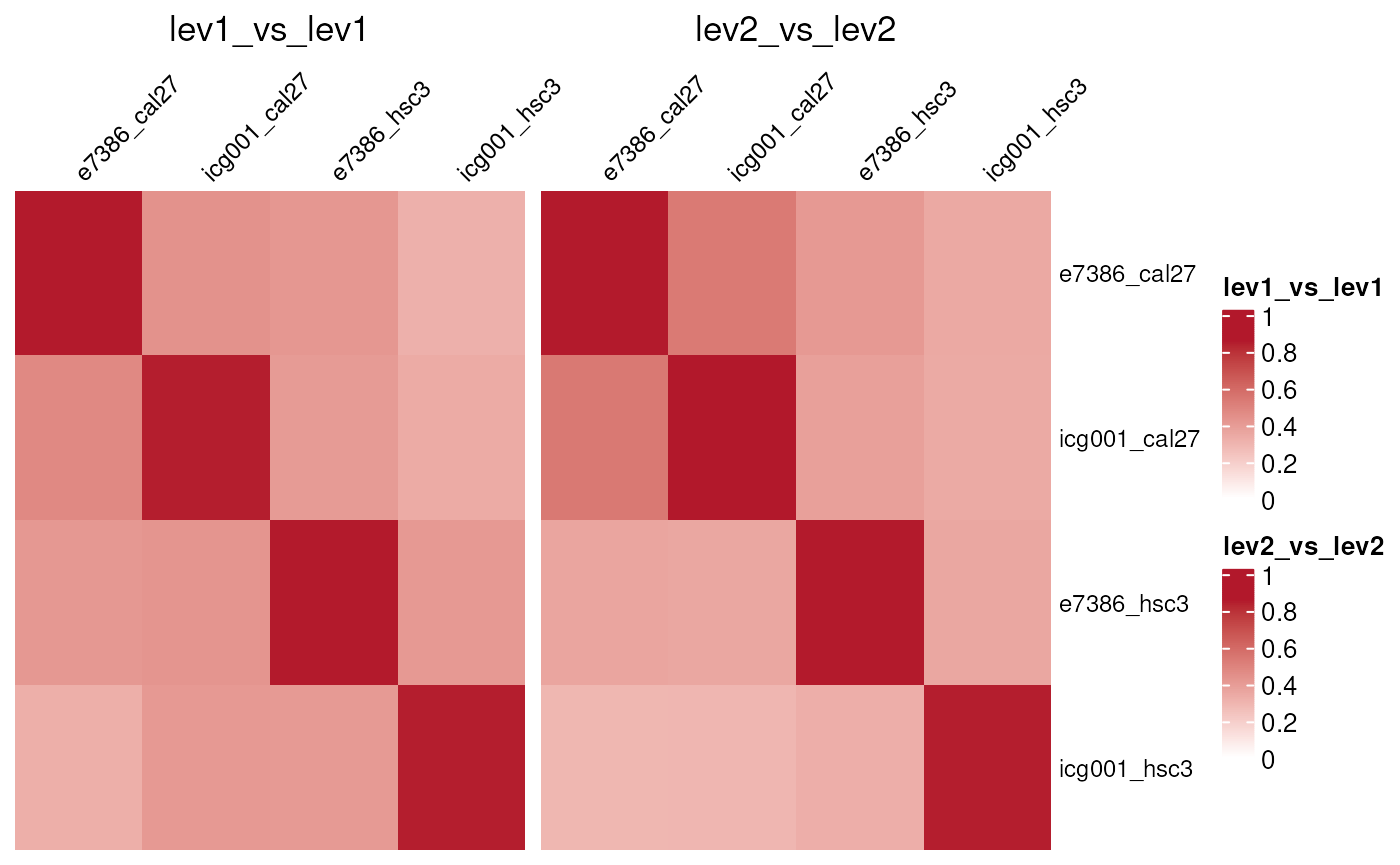
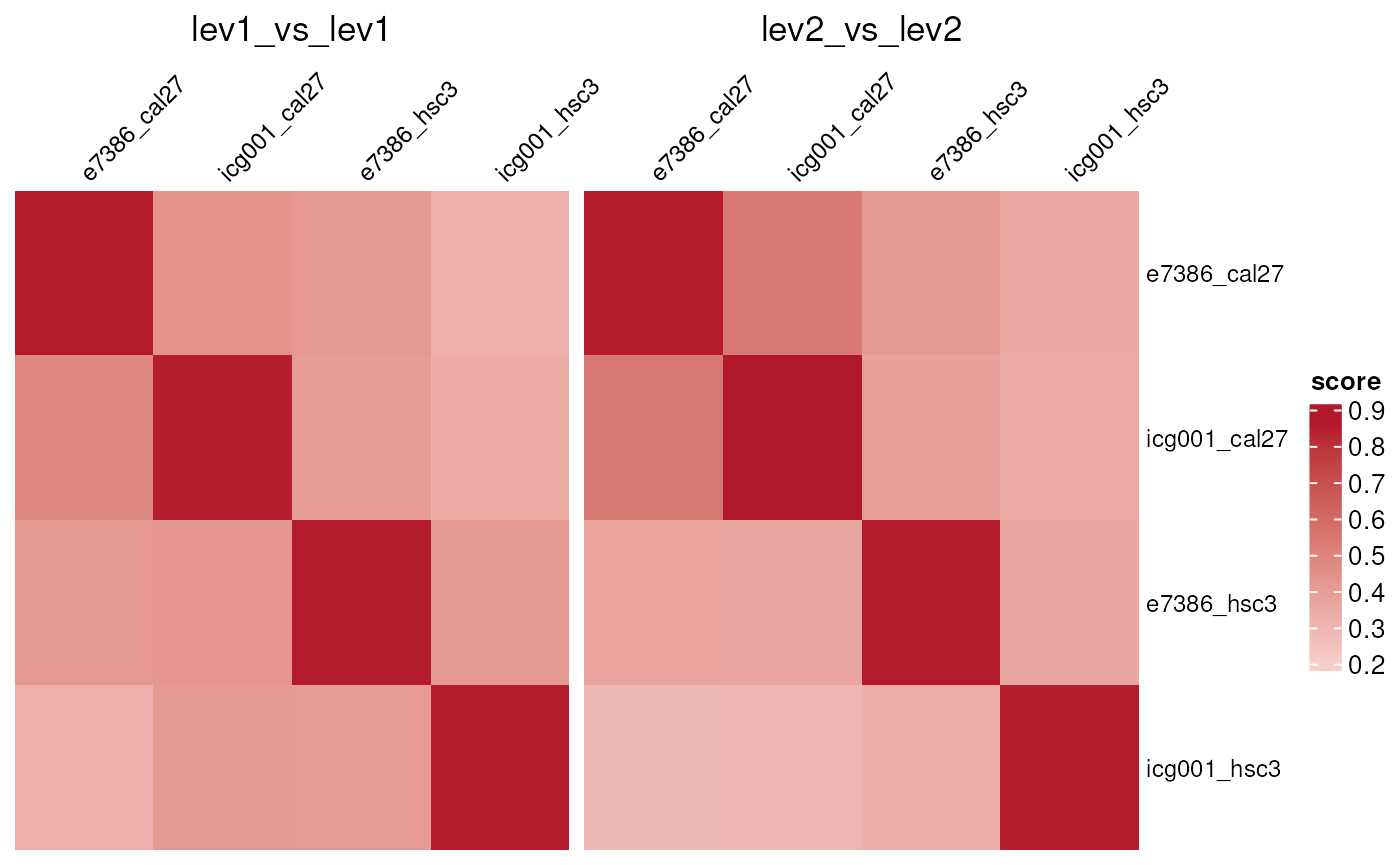
Deploying to gh-pages from @ montilab/OmicSignature@bfc68c5dff5662e08945b563b76c10bbcdbe4739 🚀

diff --git a/reference/signature_similarity_heatmap.html b/reference/signature_similarity_heatmap.html
@@ -5,17 +5,21 @@ similarity or p-value-based similarity on a `-log10(p-value)` scale.
 Asymmetric KS and GSEA comparisons can show score or `-log10(p-value)`
 matrices. For these comparisons, `mode = "combined"` draws split cells: the
 top-right triangle shows `level2_vs_level2` and the bottom-left triangle
-shows `level1_vs_level1`. `mode = "separate"`
-draws one full heatmap per level, and `mode = "split"` is invalid. Legends
-for level-specific displays use abbreviated labels such as `"lev1_vs_lev1"`.'><meta property="og:description" content='Plot one or more ComplexHeatmap heatmaps from the object returned by
+shows `level1_vs_level1`. `mode = "separate"` draws one full heatmap per
+level, each panel titled with an abbreviated label such as
+`"lev1_vs_lev1"`; since both panels use the same color scale, they share a
+single combined legend rather than showing two identical ones.
+`mode = "split"` is invalid for rank-based comparisons.'><meta property="og:description" content='Plot one or more ComplexHeatmap heatmaps from the object returned by
 `compare_omic_signatures()`. Overlap comparisons can show Jaccard
 similarity or p-value-based similarity on a `-log10(p-value)` scale.
 Asymmetric KS and GSEA comparisons can show score or `-log10(p-value)`
 matrices. For these comparisons, `mode = "combined"` draws split cells: the
 top-right triangle shows `level2_vs_level2` and the bottom-left triangle
-shows `level1_vs_level1`. `mode = "separate"`
-draws one full heatmap per level, and `mode = "split"` is invalid. Legends
-for level-specific displays use abbreviated labels such as `"lev1_vs_lev1"`.'></head><body>
+shows `level1_vs_level1`. `mode = "separate"` draws one full heatmap per
+level, each panel titled with an abbreviated label such as
+`"lev1_vs_lev1"`; since both panels use the same color scale, they share a
+single combined legend rather than showing two identical ones.
+`mode = "split"` is invalid for rank-based comparisons.'></head><body>
     <a href="#main" class="visually-hidden-focusable">Skip to contents</a>
 
 
@@ -63,7 +67,7 @@ for level-specific displays use abbreviated labels such as `"lev1_vs_lev1"`.'></
   <main id="main" class="col-md-9"><div class="page-header">
 
       <h1>Plot signature similarity heatmaps</h1>
-      <small class="dont-index">Source: <a href="https://github.com/montilab/OmicSignature/blob/main/R/signature_similarity_heatmap.R" class="external-link"><code>R/signature_similarity_heatmap.R</code></a></small>
+      <small class="dont-index">Source: <a href="https://github.com/montilab/OmicSignature/blob/feature/heatmap-shared-legend/R/signature_similarity_heatmap.R" class="external-link"><code>R/signature_similarity_heatmap.R</code></a></small>
       <div class="d-none name"><code>signature_similarity_heatmap.Rd</code></div>
     </div>
 
@@ -74,9 +78,11 @@ similarity or p-value-based similarity on a `-log10(p-value)` scale.
 Asymmetric KS and GSEA comparisons can show score or `-log10(p-value)`
 matrices. For these comparisons, `mode = "combined"` draws split cells: the
 top-right triangle shows `level2_vs_level2` and the bottom-left triangle
-shows `level1_vs_level1`. `mode = "separate"`
-draws one full heatmap per level, and `mode = "split"` is invalid. Legends
-for level-specific displays use abbreviated labels such as `"lev1_vs_lev1"`.</p>
+shows `level1_vs_level1`. `mode = "separate"` draws one full heatmap per
+level, each panel titled with an abbreviated label such as
+`"lev1_vs_lev1"`; since both panels use the same color scale, they share a
+single combined legend rather than showing two identical ones.
+`mode = "split"` is invalid for rank-based comparisons.</p>
     </div>
 
     <div class="section level2">

diff --git a/articles/CompareMixedDirection.html b/articles/CompareMixedDirection.html
@@ -73,7 +73,7 @@
       <h1>Comparing Mixed Uni- and Bi-directional Signatures</h1>
             
       
-      <small class="dont-index">Source: <a href="https://github.com/montilab/OmicSignature/blob/main/vignettes/CompareMixedDirection.Rmd" class="external-link"><code>vignettes/CompareMixedDirection.Rmd</code></a></small>
+      <small class="dont-index">Source: <a href="https://github.com/montilab/OmicSignature/blob/feature/heatmap-shared-legend/vignettes/CompareMixedDirection.Rmd" class="external-link"><code>vignettes/CompareMixedDirection.Rmd</code></a></small>
       <div class="d-none name"><code>CompareMixedDirection.Rmd</code></div>
     </div>
 

diff --git a/articles/CompareSignatures.html b/articles/CompareSignatures.html
@@ -73,7 +73,7 @@
       <h1>Comparing OmicSignature Lists</h1>
             
       
-      <small class="dont-index">Source: <a href="https://github.com/montilab/OmicSignature/blob/main/vignettes/CompareSignatures.Rmd" class="external-link"><code>vignettes/CompareSignatures.Rmd</code></a></small>
+      <small class="dont-index">Source: <a href="https://github.com/montilab/OmicSignature/blob/feature/heatmap-shared-legend/vignettes/CompareSignatures.Rmd" class="external-link"><code>vignettes/CompareSignatures.Rmd</code></a></small>
       <div class="d-none name"><code>CompareSignatures.Rmd</code></div>
     </div>
 

diff --git a/articles/CompareUnidirectional.html b/articles/CompareUnidirectional.html
@@ -73,7 +73,7 @@
       <h1>Comparing Uni-directional Signatures</h1>
             
       
-      <small class="dont-index">Source: <a href="https://github.com/montilab/OmicSignature/blob/main/vignettes/CompareUnidirectional.Rmd" class="external-link"><code>vignettes/CompareUnidirectional.Rmd</code></a></small>
+      <small class="dont-index">Source: <a href="https://github.com/montilab/OmicSignature/blob/feature/heatmap-shared-legend/vignettes/CompareUnidirectional.Rmd" class="external-link"><code>vignettes/CompareUnidirectional.Rmd</code></a></small>
       <div class="d-none name"><code>CompareUnidirectional.Rmd</code></div>
     </div>
 

diff --git a/articles/CreateOmS.html b/articles/CreateOmS.html
@@ -76,7 +76,7 @@ Li</h4>
             
             <h4 data-toc-skip class="date">2026-07-17</h4>
       
-      <small class="dont-index">Source: <a href="https://github.com/montilab/OmicSignature/blob/main/vignettes/CreateOmS.Rmd" class="external-link"><code>vignettes/CreateOmS.Rmd</code></a></small>
+      <small class="dont-index">Source: <a href="https://github.com/montilab/OmicSignature/blob/feature/heatmap-shared-legend/vignettes/CreateOmS.Rmd" class="external-link"><code>vignettes/CreateOmS.Rmd</code></a></small>
       <div class="d-none name"><code>CreateOmS.Rmd</code></div>
     </div>
 

diff --git a/articles/CreateOmSC.html b/articles/CreateOmSC.html
@@ -76,7 +76,7 @@ Li</h4>
             
             <h4 data-toc-skip class="date">2026-07-17</h4>
       
-      <small class="dont-index">Source: <a href="https://github.com/montilab/OmicSignature/blob/main/vignettes/CreateOmSC.Rmd" class="external-link"><code>vignettes/CreateOmSC.Rmd</code></a></small>
+      <small class="dont-index">Source: <a href="https://github.com/montilab/OmicSignature/blob/feature/heatmap-shared-legend/vignettes/CreateOmSC.Rmd" class="external-link"><code>vignettes/CreateOmSC.Rmd</code></a></small>
       <div class="d-none name"><code>CreateOmSC.Rmd</code></div>
     </div>
 

diff --git a/articles/FunOmS.html b/articles/FunOmS.html
@@ -76,7 +76,7 @@ Li</h4>
             
             <h4 data-toc-skip class="date">2026-07-17</h4>
       
-      <small class="dont-index">Source: <a href="https://github.com/montilab/OmicSignature/blob/main/vignettes/FunOmS.Rmd" class="external-link"><code>vignettes/FunOmS.Rmd</code></a></small>
+      <small class="dont-index">Source: <a href="https://github.com/montilab/OmicSignature/blob/feature/heatmap-shared-legend/vignettes/FunOmS.Rmd" class="external-link"><code>vignettes/FunOmS.Rmd</code></a></small>
       <div class="d-none name"><code>FunOmS.Rmd</code></div>
     </div>
 

diff --git a/articles/FunOmSC.html b/articles/FunOmSC.html
@@ -76,7 +76,7 @@ Li</h4>
             
             <h4 data-toc-skip class="date">2026-07-17</h4>
       
-      <small class="dont-index">Source: <a href="https://github.com/montilab/OmicSignature/blob/main/vignettes/FunOmSC.Rmd" class="external-link"><code>vignettes/FunOmSC.Rmd</code></a></small>
+      <small class="dont-index">Source: <a href="https://github.com/montilab/OmicSignature/blob/feature/heatmap-shared-legend/vignettes/FunOmSC.Rmd" class="external-link"><code>vignettes/FunOmSC.Rmd</code></a></small>
       <div class="d-none name"><code>FunOmSC.Rmd</code></div>
     </div>
 

diff --git a/articles/ObjectStructure.html b/articles/ObjectStructure.html
@@ -76,7 +76,7 @@ Li</h4>
             
             <h4 data-toc-skip class="date">2026-07-17</h4>
       
-      <small class="dont-index">Source: <a href="https://github.com/montilab/OmicSignature/blob/main/vignettes/ObjectStructure.Rmd" class="external-link"><code>vignettes/ObjectStructure.Rmd</code></a></small>
+      <small class="dont-index">Source: <a href="https://github.com/montilab/OmicSignature/blob/feature/heatmap-shared-legend/vignettes/ObjectStructure.Rmd" class="external-link"><code>vignettes/ObjectStructure.Rmd</code></a></small>
       <div class="d-none name"><code>ObjectStructure.Rmd</code></div>
     </div>
 

diff --git a/articles/SampleType.html b/articles/SampleType.html
@@ -76,7 +76,7 @@ Li</h4>
             
             <h4 data-toc-skip class="date">2026-07-17</h4>
       
-      <small class="dont-index">Source: <a href="https://github.com/montilab/OmicSignature/blob/main/vignettes/SampleType.Rmd" class="external-link"><code>vignettes/SampleType.Rmd</code></a></small>
+      <small class="dont-index">Source: <a href="https://github.com/montilab/OmicSignature/blob/feature/heatmap-shared-legend/vignettes/SampleType.Rmd" class="external-link"><code>vignettes/SampleType.Rmd</code></a></small>
       <div class="d-none name"><code>SampleType.Rmd</code></div>
     </div>
 

diff --git a/authors.html b/authors.html
@@ -64,7 +64,7 @@
 
     <div class="section level2">
       <h2 id="citation">Citation</h2>
-      <p><small class="dont-index">Source: <a href="https://github.com/montilab/OmicSignature/blob/main/DESCRIPTION" class="external-link"><code>DESCRIPTION</code></a></small></p>
+      <p><small class="dont-index">Source: <a href="https://github.com/montilab/OmicSignature/blob/feature/heatmap-shared-legend/DESCRIPTION" class="external-link"><code>DESCRIPTION</code></a></small></p>
 
       <p>Li V, Monti S (2026).
 <em>OmicSignature: An R package to store omics signatures as an R6 object</em>.

diff --git a/reference/BRENDA.html b/reference/BRENDA.html
@@ -47,7 +47,7 @@
   <main id="main" class="col-md-9"><div class="page-header">
 
       <h1>BRENDA tissue ontology obo file. using version 2021/10</h1>
-      <small class="dont-index">Source: <a href="https://github.com/montilab/OmicSignature/blob/main/R/data.R" class="external-link"><code>R/data.R</code></a></small>
+      <small class="dont-index">Source: <a href="https://github.com/montilab/OmicSignature/blob/feature/heatmap-shared-legend/R/data.R" class="external-link"><code>R/data.R</code></a></small>
       <div class="d-none name"><code>BRENDA.Rd</code></div>
     </div>
 